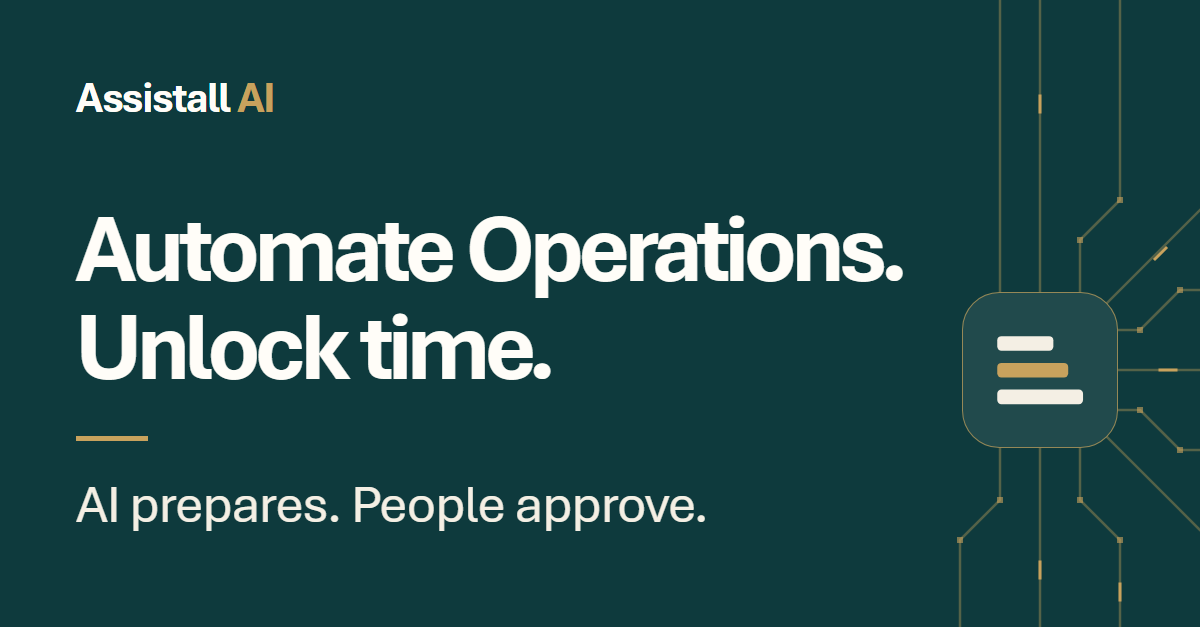
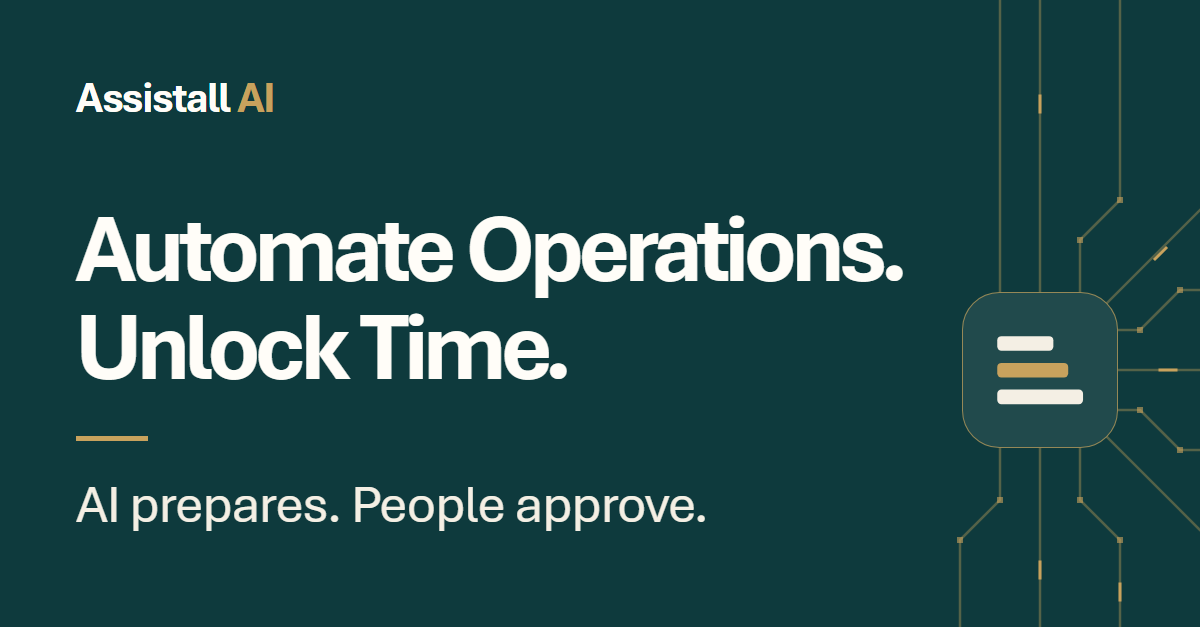
Tagline: "Unlock Time." with a capital T [skip ci]
Owner decision 4 Nov 2026: the tagline is "Automate Operations. Unlock Time."
everywhere. Updated the page title, meta description, og:title,
og:description, og:image:alt, hero headline, social card source and the
three test asserts, noted the rule in DESIGN.md, and rebuilt
assets/social-share.png.

Changed region(s): [[0.2775, 0.4848, 0.4933, 0.6061]]

diff --git a/index.html b/index.html
@@ -3,10 +3,10 @@
 <head>
   <meta charset="utf-8">
   <meta name="viewport" content="width=device-width, initial-scale=1">
-  <title>Assistall AI — Automate Operations. Unlock time.</title>
-  <meta name="description" content="Automate Operations. Unlock time. Assistall takes on the routine work across your email, files, reports, contracts, shipments and business systems, and your team checks every important next step.">
-  <meta property="og:title" content="Assistall AI — Automate Operations. Unlock time.">
-  <meta property="og:description" content="Automate Operations. Unlock time. AI prepares the work. People approve it.">
+  <title>Assistall AI — Automate Operations. Unlock Time.</title>
+  <meta name="description" content="Automate Operations. Unlock Time. Assistall takes on the routine work across your email, files, reports, contracts, shipments and business systems, and your team checks every important next step.">
+  <meta property="og:title" content="Assistall AI — Automate Operations. Unlock Time.">
+  <meta property="og:description" content="Automate Operations. Unlock Time. AI prepares the work. People approve it.">
   <meta property="og:type" content="website">
   <meta property="og:url" content="https://assistall.ai/">
   <meta property="og:site_name" content="Assistall AI">
@@ -15,7 +15,7 @@
   <meta property="og:image:type" content="image/png">
   <meta property="og:image:width" content="1200">
   <meta property="og:image:height" content="627">
-  <meta property="og:image:alt" content="Assistall AI. Automate Operations. Unlock time. AI prepares. People approve.">
+  <meta property="og:image:alt" content="Assistall AI. Automate Operations. Unlock Time. AI prepares. People approve.">
   <meta name="twitter:card" content="summary_large_image">
   <meta name="theme-color" content="#0E3A3D">
   <!-- Public Turnstile site key (widget "Assistall website demo form", hostnames assistall.ai and www.assistall.ai). The secret lives only in the cPanel secrets file. -->
@@ -58,7 +58,7 @@
 
       <div class="wrap hero-grid">
         <div class="hero-copy" data-reveal>
-          <h1 id="hero-title">Automate Operations. Unlock time.</h1>
+          <h1 id="hero-title">Automate Operations. Unlock Time.</h1>
           <p class="hero-lede">Assistall brings your email, files, reports, contracts, shipments and business systems into one clear workspace. It prepares the next step. Your team checks it. Assistall makes it happen.</p>
           <div class="button-row" aria-label="Hero actions">
             <a class="button button--primary" href="#demo" data-scroll-link>Book a demo</a>

diff --git a/tools/social-card/card.html b/tools/social-card/card.html
@@ -80,7 +80,7 @@
 
   <div class="copy">
     <div class="wordmark">Assistall <b>AI</b></div>
-    <h1>Automate Operations.<br>Unlock time.</h1>
+    <h1>Automate Operations.<br>Unlock Time.</h1>
     <div class="rule"></div>
     <p class="line">AI prepares. People approve.</p>
   </div>

diff --git a/DESIGN.md b/DESIGN.md
@@ -110,7 +110,7 @@ components:
 
 **Creative North Star: "Quiet Authority"**
 
-**Business tagline (owner, 23 October 2026): "Automate Operations. Unlock time."** It is the hero headline and the page title, and the copy around it should reflect it: Assistall takes on routine operations so people get their time back, and people still approve what matters. Write it exactly like this, capital O on Operations.
+**Business tagline (owner, 23 October 2026): "Automate Operations. Unlock Time." (capital T on Time, owner 4 Nov 2026)** It is the hero headline and the page title, and the copy around it should reflect it: Assistall takes on routine operations so people get their time back, and people still approve what matters. Write it exactly like this, capital O on Operations.
 
 A calm, premium operations brand for non-technical business owners. The page reads like a well-run office: deep teal and warm limestone surfaces, one brass accent, generous space, and plain, specific language. Confidence comes from restraint and real product evidence (recorded workflows with fictional data), never from hype, metrics or decoration.
 
